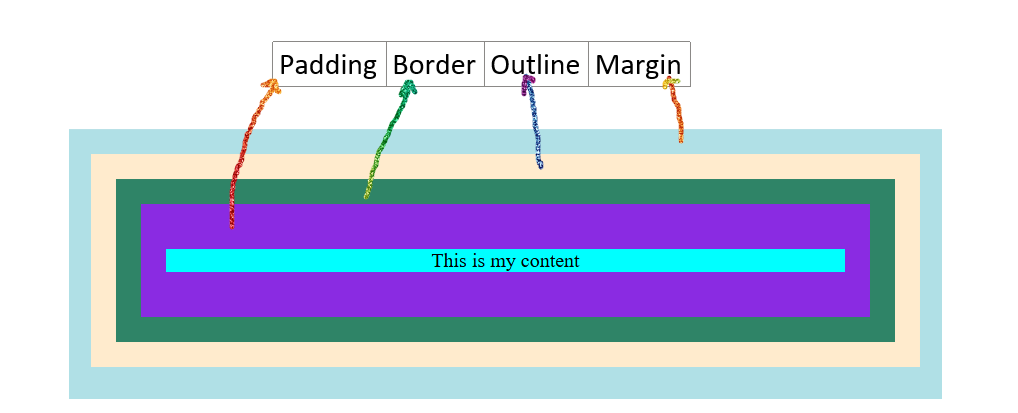
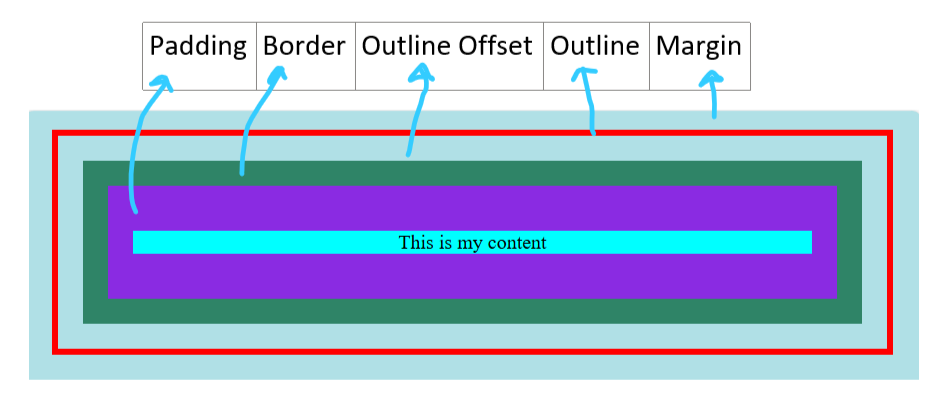
dimension, allignment, direction

diff --git a/css-course/democode.html b/css-course/democode.html
@@ -6,11 +6,31 @@
     <title>Document</title>
     <link rel="stylesheet" href="style.css">
 </head>
-<body class="parent">
+
+<body>
+    <h1>The vertical-align Property</h1>
+
+    <h2>vertical-align: baseline (default):</h2>
+    <p>An <img src="./cssimages/girl.png" width="9" height="9"> image with no alignment.</p> 
+
+    <h2>vertical-align: text-top:</h2>
+    <p>An <img class="top" src="./cssimages/girl.png" width="9" height="9"> image with a text-top alignment.</p> 
+
+    <h2>vertical-align: text-bottom:</h2>
+    <p>An <img class="bottom" src="./cssimages/girl.png" width="9" height="9"> image with a text-bottom alignment.</p>
+
+    <h2>vertical-align: sub:</h2>
+    <p>An <img class="sub" src="./cssimages/girl.png" width="9" height="9"> image with a sub alignment.</p> 
+
+    <h2>vertical-align: sup:</h2>
+    <p>An <img class="sup" src="./cssimages/girl.png" width="9" height="9"> image with a super alignment.</p>
+</body>
+
+<!-- <body class="parent">
     <div class="child">
         <p>This is my content</p>
     </div>
-</body>
+</body> -->
 <!-- <body>
     <h1>The background Property</h1>
 

diff --git a/css-course/style.css b/css-course/style.css
@@ -25,7 +25,7 @@ h1,div{
     background-attachment: fixed;
 } */
 
-.parent{
+/* .parent{
     background-color: powderblue;
     text-align: center;
 }
@@ -35,8 +35,9 @@ h1,div{
     border-width: 20px;
     border-color: rgb(47, 132, 103);
 
-    outline:20px;
-    outline-color: blanchedalmond;
+    outline-width:5px;
+    outline-offset: 20px;
+    outline-color: red;
     outline-style: solid;
 
     padding: 20px;
@@ -44,4 +45,20 @@ h1,div{
 }
 p{
     background-color: aqua;
+} */
+
+p{
+    background-color: rgb(236, 211, 171);
+}
+img.top{
+    vertical-align: top;
+}
+img.bottom{
+    vertical-align: bottom;
+}
+img.sub{
+    vertical-align: sub;
+}
+img.sup{
+    vertical-align: super;
 }

diff --git a/css-course/README.md b/css-course/README.md
@@ -143,6 +143,47 @@ border: 5px solid red;
             </tr>
         </tbody>
     </table>
+    same is applicable for outline.
 </div>
+
+## CSS dimensions
+<img src="./cssimages/CSSdimensions.png">
+
+## CSS Text Alignment/Direction Properties
+<img src="./cssimages/cssAllignmentAndDirection.PNG">
+<h3><ins>direction</ins></h3>
+<ul>
+<li><b>ltr : </b>This text goes from left to right. This is default.</li>
+<li><b>rtl : </b>This text goes from right to left.</li>
+</ul>
+
+<h3><ins>text-align</ins></h3>
+<table>
+    <tr>
+        <td><b>left : </b></td>
+        <td><img src="./cssimages/left.PNG" height=100></td>
+    </tr>
+    <tr>
+        <td><b>right : </b></td>
+        <td><img src="./cssimages/right.PNG" height=100></td>
+    </tr>
+    <tr>
+        <td><b>center : </b></td>
+        <td><img src="./cssimages/center.PNG" height=100></td>
+    </tr>
+    <tr>
+        <td><b>justify : </b></td>
+        <td><img src="./cssimages/justify.PNG" height=100></td>
+    </tr>
+</table>
+
+<h3><ins>text-align-last</ins></h3>
+Only the last line is aligned.
+
+<h3><ins>vertical-allignment</ins></h3>
+<img src="./cssimages/verticalallignment.PNG" height=300>
+
+
+
 
 
